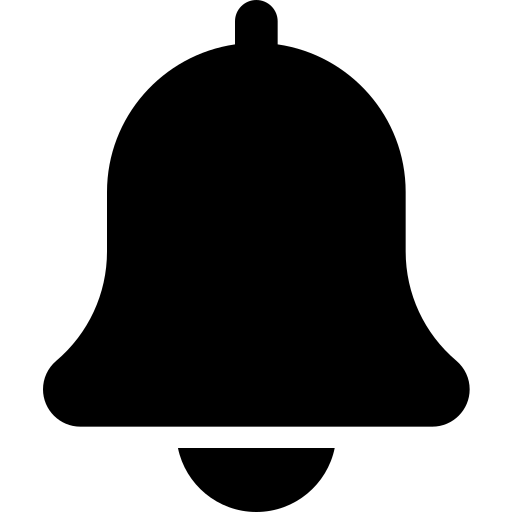
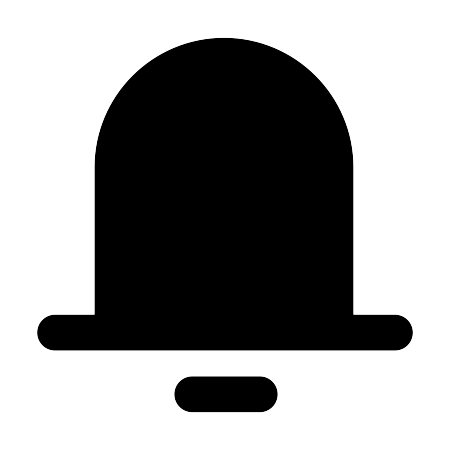
chore: updated readme

diff --git a/styles/Games.module.css b/styles/Games.module.css
@@ -1,0 +1,176 @@
+.mainContainer {
+  background-color: white;
+  min-height: 100vh;
+  padding: 0 0.5rem;
+  display: flex;
+  flex-direction: column;
+  }
+
+.navbar {
+  display: flex;
+  flex-direction: row;
+  justify-content: space-between;
+  background-color: white;
+  margin: 10px;
+}
+
+.subContainer {
+  display: flex;
+  flex-direction: row;
+  background-color: lightgray;
+}
+
+.sideBar {
+  display: flex;
+  flex-shrink: 0.4;
+  flex-direction: column;
+  background-color: white;
+  justify-content: flex-start;
+  padding: 0 20px;
+}
+
+.gameFeed {
+  display: flex;
+  flex-direction: column;
+  flex-grow: 1.6;
+  justify-content: flex-start;
+}
+
+
+
+.title a {
+  color: #0070f3;
+  text-decoration: none;
+}
+
+.title a:hover,
+.title a:focus,
+.title a:active {
+  text-decoration: underline;
+}
+
+.title {
+  margin: 0 0 1rem;
+  line-height: 1.15;
+  font-size: 3.6rem;
+}
+
+.title {
+  text-align: center;
+}
+
+.title,
+.description {
+  text-align: center;
+}
+
+.description {
+  line-height: 1.5;
+  font-size: 1.5rem;
+}
+
+.navLeft {
+  display: flex;
+  flex-direction: row;
+  justify-content: flex-start;
+}
+
+.navCenter {
+  display: flex;
+  flex-direction: row;
+  width: 33%;
+  justify-content: center;
+}
+.navSections {
+  width: 133%;
+  display: flex;
+  flex-direction: row;
+  justify-content: space-between;
+}
+.navRight {
+  display: flex;
+  flex-direction: row;
+  justify-content: flex-end;
+}
+
+
+.carousel {
+  display: flex;
+  flex-direction: column;
+}
+
+.gameStrip {
+  display: flex;
+  flex-direction: row;
+  justify-content: space-evenly;
+}
+
+.gameCard {
+  display: flex;
+  flex-direction: column;
+  justify-content: flex-end;
+  margin-right: 10px;
+  min-height: 300px;
+  min-width: 225px;
+  background-size: cover;
+  background-position: center;
+  color: inherit;
+  text-decoration: none;
+  border: 1px solid #eaeaea;
+  border-radius: 10px;
+  transition:
+      color 0.15s ease,
+      border-color 0.15s ease;
+}
+
+.gameCard:hover,
+.gameCard:focus,
+.gameCard:active {
+  color: #0070f3;
+  border-color: #0070f3;
+}
+
+.gameCard h3 {
+  margin: 0 0 1rem 0;
+  font-size: 1.5rem;
+}
+
+.gameCard p {
+  margin: 0;
+  font-size: 1.25rem;
+  line-height: 1.5;
+}
+
+.sideBarTitle {
+  display: flex;
+  flex-direction: row;
+  justify-content: space-between;
+}
+
+.sideBarSearch input {
+  width: 100%;
+}
+
+.sidebarPlay {
+  display: flex;
+  flex-direction: column;
+}
+
+.sideBarSaved {
+  display: flex;
+  flex-direction: row;
+  justify-content: space-between;
+}
+
+.gameCategory {
+  display: flex;
+  flex-direction: row;
+  justify-content: flex-start;
+}
+
+@media (max-width: 600px) {
+  .grid {
+      width: 100%;
+      flex-direction: column;
+  }
+}

diff --git a/pages/sidebar/gamingSidebar.js b/pages/sidebar/gamingSidebar.js
@@ -1,21 +1,21 @@
-import styles from '../../styles/Games.module.css';
 import GamingCategories from "./gamingCategories";
 import SidebarSearch from "./sidebarSearch";
+import styles from '../../styles/Games.module.css';
+import Image from "next/image";
+import SideBarActions from "./sideBarActions";
 export default function GamingSideBar() {
     return (
         <div className={styles.sideBar}>
             <div className={styles.sideBarTitle}>
                 <h3>Gaming</h3>
-                <p>Settings(gear icon)</p>
+                <Image src={'/cog.png'} height='20' width='20'/>
             </div>
             <div className={styles.sideBarSearch}>
                 <SidebarSearch />
             </div>
             <div className={styles.sideBarPlay}>
-                <p>controller icon = Play Games</p>
-                <p>bell icon = Notifications</p>
+            <SideBarActions />
             </div>
-            <hr />
             <div className={styles.sideBarSaved}>
                 <h4>Your Games</h4>
                 <p>See All</p>
@@ -26,11 +26,12 @@ export default function GamingSideBar() {
             <div className={styles.sideBarSave}>
                 <p>bookmark icon = Save Games</p>
             </div>
-            <hr />
             <div className={styles.sideBarCategories}>
                 <h4>Categories</h4>
                 <GamingCategories />
             </div>
+
+
         </div>
     )
 }

diff --git a/pages/navbar/sections.js b/pages/navbar/sections.js
@@ -5,10 +5,10 @@ export default function Sections() {
     return (
         <div className={styles.navSections}>
             {/* Assuming you have four logo images */}
-            <div><Image src='/engineer.png' alt='house' width='40' height='40' /></div>
-            <div><Image src='/engineer.png' alt='house' width='40' height='40' /></div>
-            <div><Image src='/engineer.png' alt='house' width='40' height='40' /></div>
-            <div><Image src='/engineer.png' alt='house' width='40' height='40' /></div>
+            <div><Image src='/home.png' alt='house' width='40' height='40' /></div>
+            <div><Image src='/videos.png' alt='house' width='40' height='40' /></div>
+            <div><Image src='/groups.png' alt='house' width='40' height='40' /></div>
+            <div><Image src='/gamepad-nav.png' alt='house' width='40' height='40' /></div>
         </div>
     );
 };

diff --git a/pages/navbar/options.js b/pages/navbar/options.js
@@ -5,10 +5,11 @@ export default function Options() {
     return (
         <div className={styles.navOptions}>
             {/* Assuming you have three logo images */}
+            <Image src='/grid.png' alt='house' width='40' height='40' />
+            <Image src='/messenger.png' alt='house' width='40' height='40' />
+            <Image src='/bell.png' alt='house' width='40' height='40' />
             <Image src='/engineer.png' alt='house' width='40' height='40' />
-            <Image src='/engineer.png' alt='house' width='40' height='40' />
-            <Image src='/engineer.png' alt='house' width='40' height='40' />
-            <Image src='/engineer.png' alt='house' width='40' height='40' />
+
         </div>
     );
 };

diff --git a/pages/gaming.js b/pages/gaming.js
@@ -1,14 +1,16 @@
-import Navbar from "./navbar/navs";
+import styles from "../styles/Games.module.css";
 import Gfeed from "./gaming/game-feed";
+import Navbar from "./navbar/navs";
 import GamingSidebar from "./sidebar/gamingSidebar";
-
 
 export default function Gaming() {
     return (
-      <div>
-        <Navbar />
-        <GamingSidebar />
-        <Gfeed />
-      </div>
+        <div className={styles.mainContainer}>
+            <Navbar />
+                <div className={styles.subContainer}>
+                    <GamingSidebar />
+                    <Gfeed />
+                </div>
+        </div>
     );
 }

diff --git a/pages/settings.js b/pages/settings.js
@@ -1,3 +1,4 @@
+import styles from "../styles/Games.module.css";
 import Navbar from "./navbar/navs";
 import SettingSearch from "./settings/search";
 import Sfeed from "./settings/settings-feed";
@@ -5,11 +6,13 @@ import GamingSideBar from "./sidebar/gamingSidebar";
 
 export default function Settings() {
   return(
-    <div>
+    <div className={styles.mainContainer}>
       <Navbar />
-      <GamingSideBar />
-      <SettingSearch />
-      <Sfeed />
+      <div className={styles.subContainer}>
+        <GamingSideBar />
+        <SettingSearch />
+        <Sfeed />
+      </div>
     </div>
   );
 }

diff --git a/pages/sidebar/sidebarActions.js b/pages/sidebar/sidebarActions.js
@@ -1,0 +1,20 @@
+import styles from '../../styles/Games.module.css';
+import SideBarAction from './sideBarActionCard';
+
+const actionArray = [
+    { icon: '/gamepad.png', name: "Play Games" },
+    { icon: "/bell.png", name: "Notifications" },
+
+]
+
+export default function SideBarActions() {
+    const displayActionArray = actionArray.map((action, idx) => {
+        return <SideBarAction icon={action.icon} name={action.name} key={idx} />
+    })
+
+    return (
+        <div className={styles.gamingCategories}>
+            {displayActionArray}
+        </div>
+    )
+}

diff --git a/pages/videos.js b/pages/videos.js
@@ -1,13 +1,18 @@
+import styles from "../styles/Games.module.css";
 import Navbar from "./navbar/navs";
+import GamingSideBar from "./sidebar/gamingSidebar";
 import NewVideos from "./videos/new-videos";
 import VideoFeed from "./videos/video-feed";
 
 export default function Videos() {
   return(
-    <div>
+    <div className={styles.mainContainer}>
       <Navbar />
-      <NewVideos />
-      <VideoFeed />
+      <div className={styles.subContainer}>
+        <GamingSideBar />
+        <NewVideos />
+        <VideoFeed />
+      </div>
     </div>
   );
 }

diff --git a/pages/navbar/logo.js b/pages/navbar/logo.js
@@ -1,10 +1,11 @@
 import React from 'react';
-
+import Image from 'next/image';
+import styles from '../../styles/Games.module.css';
 export default function FacebookLogo() {
-  // Assuming you have a Facebook logo image
-  return (
-    <div>
-      <img src="facebook-logo.png" alt="Facebook Logo" />
-    </div>
-  );
+    // Assuming you have a Facebook logo image
+    return (
+        <div className={styles.navLogo}>
+            <Image src='/facebooklogo.png' alt="Facebook Logo" width='20' height='20' />
+        </div>
+    );
 };

diff --git a/pages/sidebar/sidebarActionCard.js b/pages/sidebar/sidebarActionCard.js
@@ -1,0 +1,11 @@
+import Image from "next/image"
+import styles from '../../styles/Games.module.css'
+export default function SideBarAction({ icon, name }) {
+    return (
+        <div className={styles.gameCategory}>
+            <Image src={icon} width="35" height="35" />
+            <h3>{name}</h3>
+
+        </div>
+    )
+}

diff --git a/README.md b/README.md
@@ -1,1 +1,9 @@
 This is a starter template for [Learn Next.js](https://nextjs.org/learn).
+
+# Gaming Page
+![GamingHub](https://github.com/soyrvelez/multiverse-fighter/blob/main/img/docs/game-overview.png?sanitize=true)
+# Videos Page
+![VideosHub](https://github.com/soyrvelez/multiverse-fighter/blob/main/img/docs/game-overview.png?sanitize=true)
+# Settings Page
+![SettingsHub](https://github.com/soyrvelez/multiverse-fighter/blob/main/img/docs/game-overview.png?sanitize=true)
+
